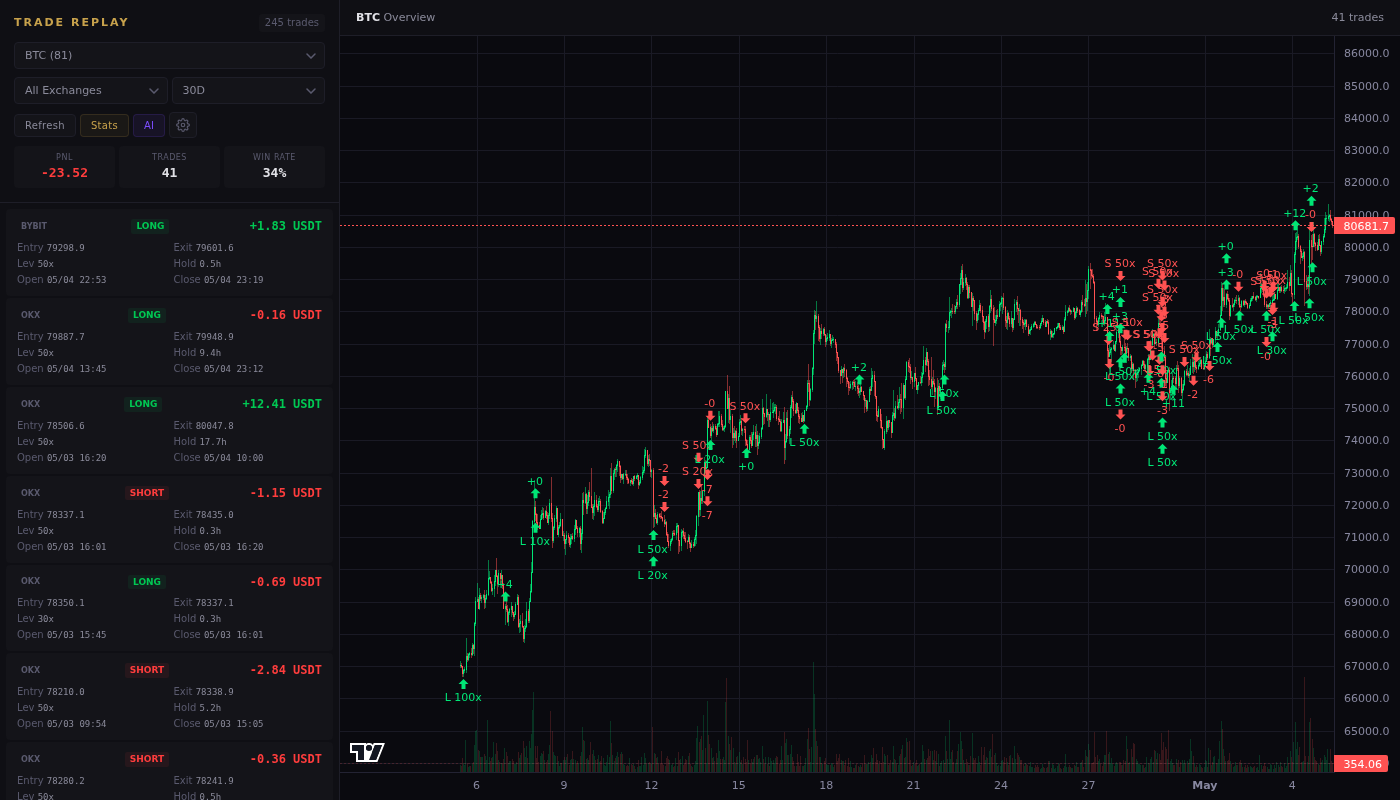
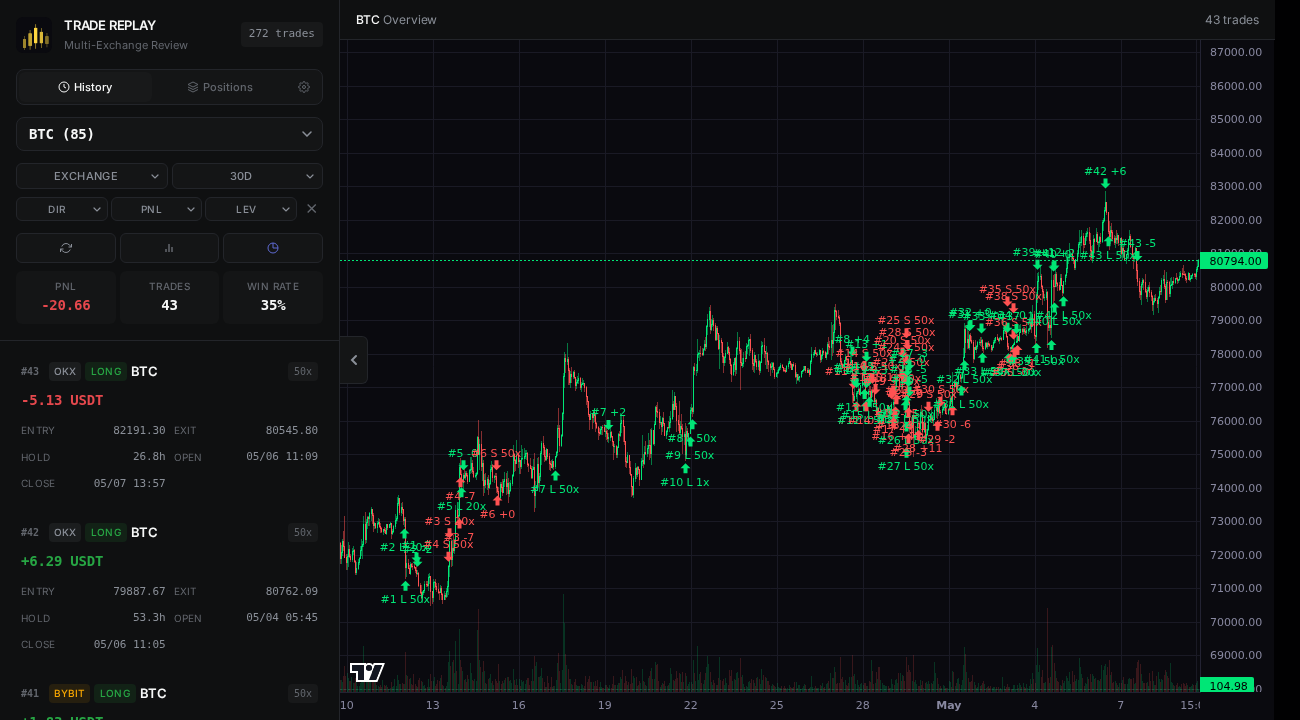
Update screenshots and README with all features

diff --git a/main.py b/main.py
@@ -226,9 +226,9 @@ async def update_config(request: Request):
         "BYBIT_API_KEY": _validate_config_value("bybit_api_key", body.get("bybit_api_key", "")),
         "BYBIT_SECRET_KEY": _validate_config_value("bybit_secret_key", body.get("bybit_secret_key", "")),
         # Bitget
-        "BITGET_API_KEY": body.get("bitget_api_key", ""),
-        "BITGET_SECRET_KEY": body.get("bitget_secret_key", ""),
-        "BITGET_PASSPHRASE": body.get("bitget_passphrase", ""),
+        "BITGET_API_KEY": _validate_config_value("bitget_api_key", body.get("bitget_api_key", "")),
+        "BITGET_SECRET_KEY": _validate_config_value("bitget_secret_key", body.get("bitget_secret_key", "")),
+        "BITGET_PASSPHRASE": _validate_config_value("bitget_passphrase", body.get("bitget_passphrase", "")),
         # AI
         "AI_BASE_URL": _normalize_ai_base_url(_validate_config_value("ai_base_url", body.get("ai_base_url", ""))),
         "AI_API_KEY": _validate_config_value("ai_api_key", body.get("ai_api_key", "")),

diff --git a/README.md b/README.md
@@ -8,13 +8,28 @@ TRADE REPLAY is a self-hosted, multi-exchange contract trade replay and review t
 ![Overview](screenshots/overview.png)
 
 ### Trade Detail — Entry/exit price lines on K-lines
-![Detail](screenshots/detail.png)
+![Detail](screenshots/trade-detail.png)
 
 ### Statistics — Equity curve, daily PnL, distribution
 ![Stats](screenshots/stats.png)
 
-### AI Analysis — AI Trading Coach
+### AI Analysis — Weekly AI Trading Coach
 ![AI Analysis](screenshots/ai-analysis.png)
+
+### AI Review — Single-trade AI analysis
+![AI Review](screenshots/ai-review.png)
+
+### Positions — Live open positions view
+![Positions](screenshots/positions.png)
+
+### Position Detail — Live position K-line with price lines
+![Position Detail](screenshots/position-detail.png)
+
+### Replay — Trade replay animation
+![Replay](screenshots/replay.png)
+
+### Settings — Exchange and AI configuration
+![Settings](screenshots/settings.png)
 
 ## Architecture
 